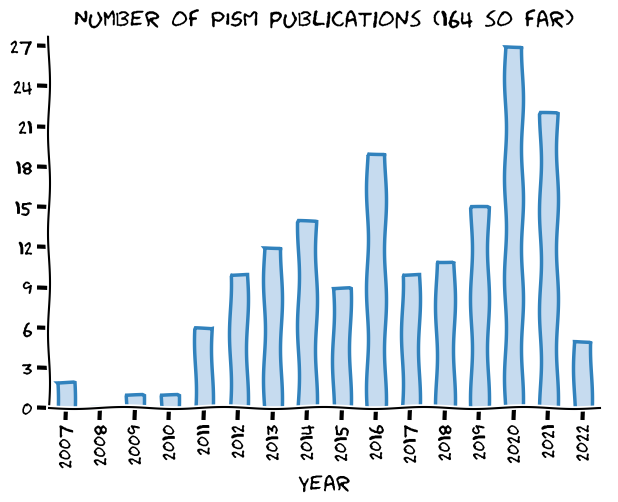
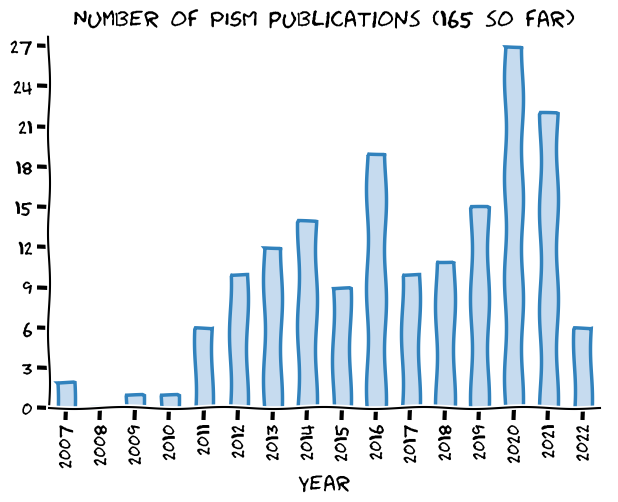
[skip ci] Update the website

Changed region(s): [[0.3382, 0.0, 0.9223, 0.0598], [0.123, 0.0, 0.3074, 0.0598], [0.9223, 0.6275, 0.9838, 0.8068]]

diff --git a/publications/index.html b/publications/index.html
@@ -291,6 +291,7 @@ window.onscroll = function() {
   <li>Shuang Liu, Kaiheng Hu, Weiming Liu, and Paul A. Carling. Hydro-climatic characteristics of Yarlung Zangbo River Basin since the Last Glacial Maximum. <em>Adv. Atmos. Sci.</em>, 2022. <a href="https://doi.org/10.1007/s00376-021-1150-7">doi:10.1007/s00376-021-1150-7</a>.</li>
   <li>M. S. Madsen, S. Yang, G. Aðalgeirsdóttir, S. H. Svendsen, C. B. Rodehacke, and I. M. Ringgaard. The role of an interactive greenland ice sheet in the coupled climate-ice sheet model EC-earth-PISM. <em>Climate Dynamics</em>, Feb 2022. <a href="https://doi.org/10.1007/s00382-022-06184-6">doi:10.1007/s00382-022-06184-6</a>.</li>
   <li>Martin Siegert and Nicholas R Golledge. Advances in Numerical Modelling of the Antarctic Ice Sheet. In <em>Antarctic Climate Evolution</em>, chapter 5, pages 199–218. Elsevier, 2nd edition, 2022.</li>
+  <li>Qing Yan, Lewis A. Owen, Chuncheng Guo, Zhongshi Zhang, Jinzhe Zhang, and Huijun Wang. Widespread glacier advances across the tian shan during marine isotope stage 3 not supported by climate-glaciation simulations. <em>Fundamental Research</em>, 2022. URL: <a href="https://www.sciencedirect.com/science/article/pii/S266732582200111X">https://www.sciencedirect.com/science/article/pii/S266732582200111X</a>, <a href="https://doi.org/10.1016/j.fmre.2022.01.033">doi:10.1016/j.fmre.2022.01.033</a>.</li>
   <li>Hu Yang, Uta Krebs-Kanzow, Thomas Kleiner, Dmitry Sidorenko, Christian Bernd Rodehacke, Xiaoxu Shi, Paul Gierz, Lu Niu, Evan J. Gowan, Sebastian Hinck, Xingxing Liu, Lennert B. Stap, and Gerrit Lohmann. Impact of paleoclimate on present and future evolution of the Greenland Ice Sheet. <em>PLOS ONE</em>, 17(1):1–21, 2022. <a href="https://doi.org/10.1371/journal.pone.0259816">doi:10.1371/journal.pone.0259816</a>.</li>
 </ol>
 

diff --git a/publications/published.md b/publications/published.md
@@ -4,7 +4,8 @@
 2. Shuang Liu, Kaiheng Hu, Weiming Liu, and Paul A\. Carling\. Hydro\-climatic characteristics of Yarlung Zangbo River Basin since the Last Glacial Maximum\. *Adv\. Atmos\. Sci\.*, 2022\. [doi:10\.1007/s00376\-021\-1150\-7](https://doi.org/10.1007/s00376-021-1150-7)\.   
 3. M\. S\. Madsen, S\. Yang, G\. Aðalgeirsdóttir, S\. H\. Svendsen, C\. B\. Rodehacke, and I\. M\. Ringgaard\. The role of an interactive greenland ice sheet in the coupled climate\-ice sheet model EC\-earth\-PISM\. *Climate Dynamics*, Feb 2022\. [doi:10\.1007/s00382\-022\-06184\-6](https://doi.org/10.1007/s00382-022-06184-6)\.   
 4. Martin Siegert and Nicholas R Golledge\. Advances in Numerical Modelling of the Antarctic Ice Sheet\. In *Antarctic Climate Evolution*, chapter 5, pages 199–218\. Elsevier, 2nd edition, 2022\.   
-5. Hu Yang, Uta Krebs\-Kanzow, Thomas Kleiner, Dmitry Sidorenko, Christian Bernd Rodehacke, Xiaoxu Shi, Paul Gierz, Lu Niu, Evan J\. Gowan, Sebastian Hinck, Xingxing Liu, Lennert B\. Stap, and Gerrit Lohmann\. Impact of paleoclimate on present and future evolution of the Greenland Ice Sheet\. *PLOS ONE*, 17\(1\):1–21, 2022\. [doi:10\.1371/journal\.pone\.0259816](https://doi.org/10.1371/journal.pone.0259816)\.   
+5. Qing Yan, Lewis A\. Owen, Chuncheng Guo, Zhongshi Zhang, Jinzhe Zhang, and Huijun Wang\. Widespread glacier advances across the tian shan during marine isotope stage 3 not supported by climate\-glaciation simulations\. *Fundamental Research*, 2022\. URL: [https://www\.sciencedirect\.com/science/article/pii/S266732582200111X](https://www.sciencedirect.com/science/article/pii/S266732582200111X), [doi:10\.1016/j\.fmre\.2022\.01\.033](https://doi.org/10.1016/j.fmre.2022.01.033)\.   
+6. Hu Yang, Uta Krebs\-Kanzow, Thomas Kleiner, Dmitry Sidorenko, Christian Bernd Rodehacke, Xiaoxu Shi, Paul Gierz, Lu Niu, Evan J\. Gowan, Sebastian Hinck, Xingxing Liu, Lennert B\. Stap, and Gerrit Lohmann\. Impact of paleoclimate on present and future evolution of the Greenland Ice Sheet\. *PLOS ONE*, 17\(1\):1–21, 2022\. [doi:10\.1371/journal\.pone\.0259816](https://doi.org/10.1371/journal.pone.0259816)\.   
 
 ### 2021
 
